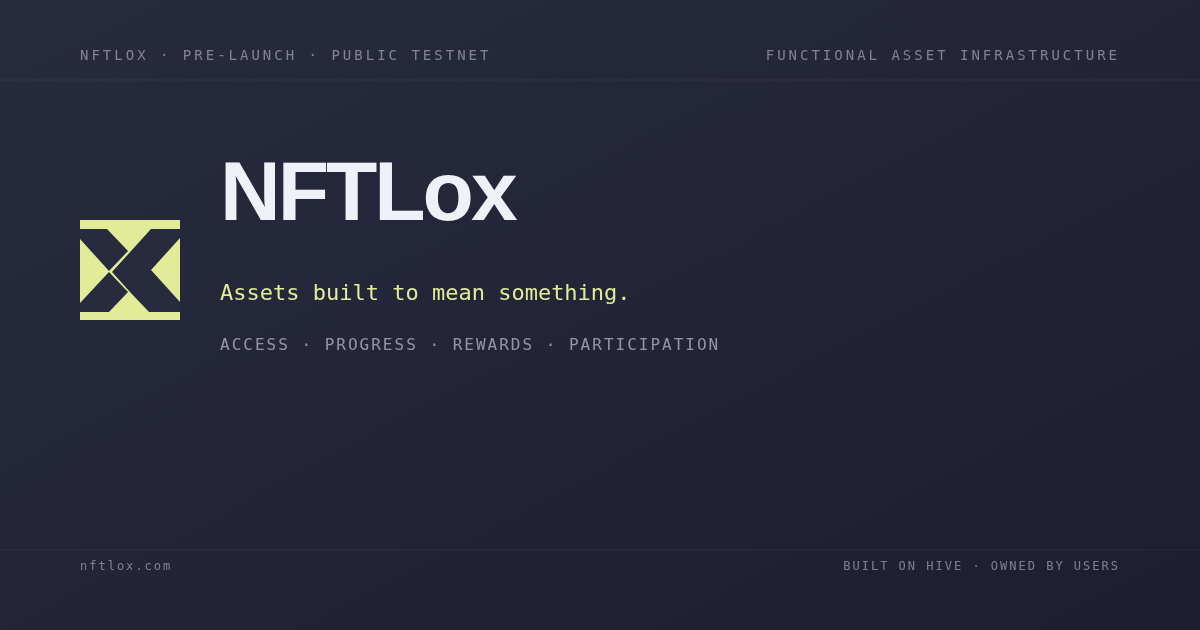
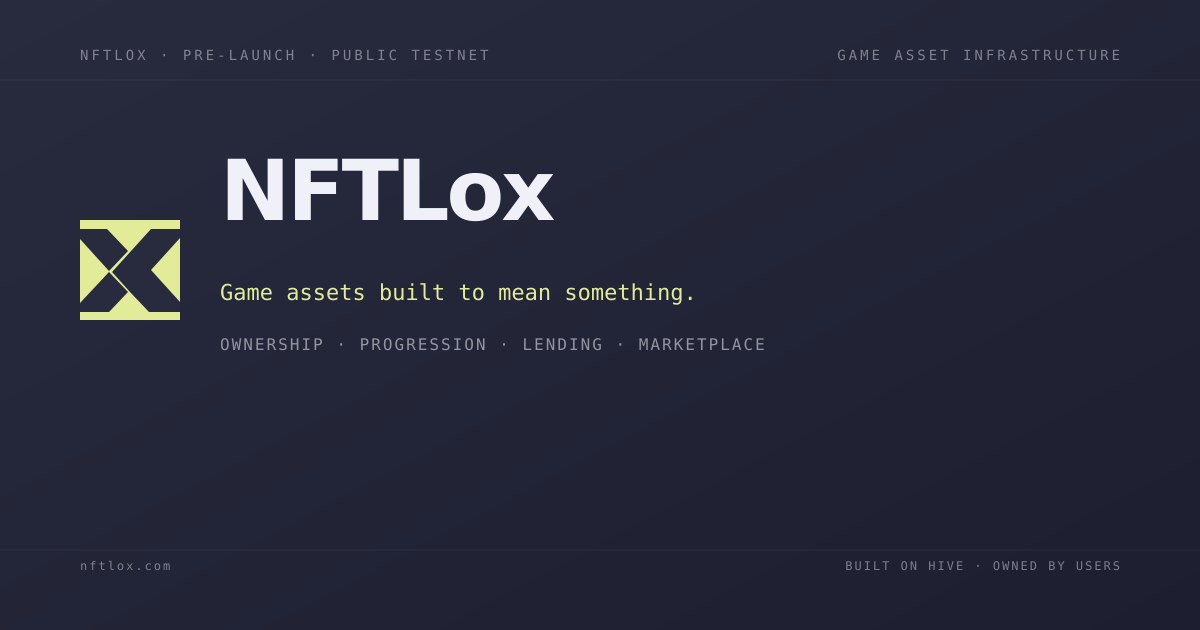
feat: update content and structure to reflect focus on game assets

diff --git a/src/consts/site.ts b/src/consts/site.ts
@@ -1,7 +1,7 @@
 export const SITE = {
-	title: "NFTLox — Functional asset infrastructure",
+	title: "NFTLox — Game asset infrastructure on Hive",
 	description:
-		"Infrastructure for functional digital assets that represent access, progress, rewards, membership, discounts, and participation across games and applications.",
+		"Open infrastructure for player-owned game assets with mutable state, non-custodial lending, and atomic marketplace settlement on Hive.",
 	url: "https://nftlox.com",
 	author: "NFTLox Protocol",
 	lang: "en",

diff --git a/src/styles/global.css b/src/styles/global.css
@@ -243,18 +243,6 @@
 		transform: translateY(0);
 	}
 
-	.asset-card:nth-child(2) {
-		transition-delay: 64ms;
-	}
-
-	.asset-card:nth-child(3) {
-		transition-delay: 128ms;
-	}
-
-	.asset-card:nth-child(4) {
-		transition-delay: 192ms;
-	}
-
 	a.button-control:disabled,
 	button.button-control:disabled,
 	a.button-control[aria-disabled="true"],

diff --git a/src/consts/nav.ts b/src/consts/nav.ts
@@ -5,7 +5,7 @@ export interface NavItem {
 }
 
 export const NAV_ITEMS: readonly NavItem[] = [
-	{ label: "Assets", href: "#assets" },
+	{ label: "Game assets", href: "#assets" },
 	{ label: "Purpose", href: "#purpose" },
 	{ label: "Docs", href: "https://testnet.nftlox.com/docs/#/", external: true },
 ] as const
